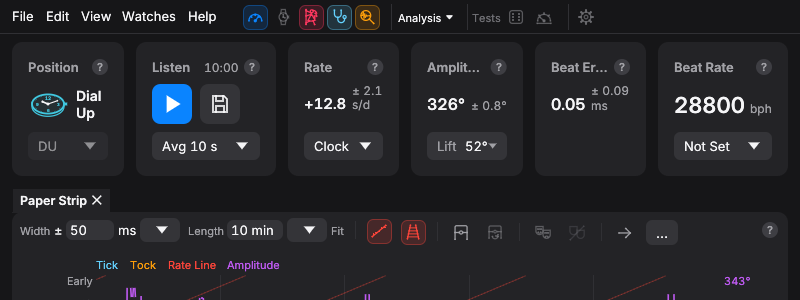
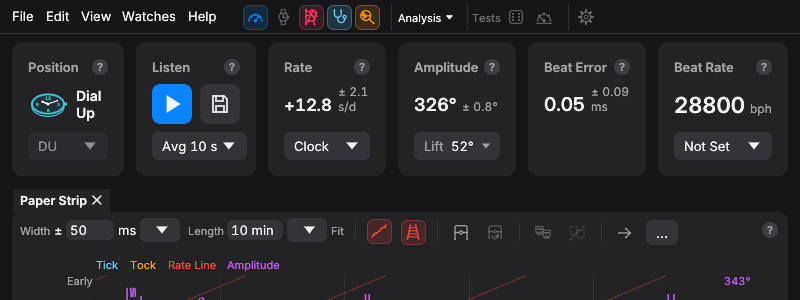
Readings cards: on the narrowest windows the take length stays in Listen's hover
Below about 820 pt a 140 pt Listen card would cut the reading cards'
captions short ("Amplit…", "Beat Er…"), so there Listen keeps the
spec's 120 pt and the length stays in its button's hover.

Claude-Session: https://claude.ai/code/session_01GsSg6RBnTb5YLpmgbJGamZ

diff --git a/crates/timegrapher-app/src/app.rs b/crates/timegrapher-app/src/app.rs
@@ -825,7 +825,13 @@ const POSITION_W: f32 = 250.0;
 const LISTEN_W: f32 = 190.0;
 const FULL_FIGURE_W: f32 = 250.0;
 const POSITION_COMPACT_W: f32 = 112.0;
+/// A compact Listen card gives the take's length beside its caption; on
+/// the narrowest windows it drops to `LISTEN_NARROWEST_W` and the length
+/// is in the Listen button's hover, so the reading cards keep
+/// `CAPTION_FIT_W`, room for their captions whole.
 const LISTEN_COMPACT_W: f32 = 140.0;
+const LISTEN_NARROWEST_W: f32 = 120.0;
+const CAPTION_FIT_W: f32 = 118.0;
 const BEAT_RATE_COMPACT_W: f32 = 130.0;
 /// The Current Position card's picture, and on a compact card.
 const POSITION_PIC: f32 = 66.0;
@@ -9732,13 +9738,18 @@ impl TimegrapherApp {
         };
         let compact = share(lead) < FULL_FIGURE_W;
         let widths = if compact {
-            let rest =
-                ((total - POSITION_COMPACT_W - LISTEN_COMPACT_W - BEAT_RATE_COMPACT_W - 5.0 * gap)
-                    / 3.0)
-                    .max(60.0);
+            let rest = |listen: f32| {
+                (total - POSITION_COMPACT_W - listen - BEAT_RATE_COMPACT_W - 5.0 * gap) / 3.0
+            };
+            let listen = if rest(LISTEN_COMPACT_W) >= CAPTION_FIT_W {
+                LISTEN_COMPACT_W
+            } else {
+                LISTEN_NARROWEST_W
+            };
+            let rest = rest(listen).max(60.0);
             [
                 POSITION_COMPACT_W,
-                LISTEN_COMPACT_W,
+                listen,
                 rest,
                 rest,
                 rest,
@@ -9896,7 +9907,9 @@ impl TimegrapherApp {
             "Listen",
             help::LISTEN,
             &[],
-            length.as_ref(),
+            length.as_ref().filter(|_| {
+                cards[1].inner.width() >= LISTEN_COMPACT_W - 2.0 * f32::from(theme::CARD_PADDING)
+            }),
         );
         slots.push((Slot::Listen, cards[1].figure.union(cards[1].controls)));
         let keep_clock = std::cell::Cell::new(false);
@@ -19176,8 +19189,9 @@ mod tests {
     }
 
     /// The readings' cards carry what a take needs: the position, Listen
-    /// and Save with the take's length (at every width) and Average Over
-    /// on a card of their own, the lift angle, and the beat rate's menu with the calibre: in
+    /// and Save with the take's length (on the card from 1000 up; on the
+    /// narrowest window in Listen's hover, so the reading cards keep their
+    /// captions whole) and Average Over on a card of their own, the lift angle, and the beat rate's menu with the calibre: in
     /// full where the window has room (1610), one control each where it
     /// hasn't (1000). Nothing says Take, Pause or Resume, and no Replay is
     /// offered.
@@ -19185,9 +19199,17 @@ mod tests {
     fn the_readings_cards_carry_the_take_controls() {
         let mut app = TimegrapherApp::with_devices(Vec::new(), None);
         let ctx = themed();
-        for w in [1000.0, 1610.0] {
+        for w in [800.0, 1000.0, 1610.0] {
             let texts = window_texts(&mut app, &ctx, w);
-            let mut wants = vec!["DU", "Listen", "Lift", "Not Set", "Watches", "bph", "0:00"];
+            let mut wants = vec!["DU", "Listen", "Lift", "Not Set", "Watches", "bph"];
+            if w > 800.0 {
+                wants.push("0:00");
+            } else {
+                // The length is in Listen's hover here, leaving the reading
+                // cards room for their captions.
+                assert!(!texts.iter().any(|t| t == "0:00"), "0:00 at {w}: {texts:?}");
+                wants.extend(["Position", "Avg 10 s", "Clock"]);
+            }
             if w > 1000.0 {
                 wants.extend([
                     "Current Position",
@@ -19203,7 +19225,7 @@ mod tests {
                     "Input Clock",
                     "Default",
                 ]);
-            } else {
+            } else if w > 800.0 {
                 // The take's length in the compact Listen card's title row,
                 // and Average Over's pop-up saying what it is.
                 wants.extend(["Position", "Dial", "Up", "Input Clock", "Avg 10 s"]);

diff --git a/docs/app.md b/docs/app.md
@@ -121,8 +121,10 @@ compact form; below about 1320 points every card does, down to the
 with a smaller picture, the name on two lines beside it, and one pop-up
 of the six positions (with their keys) instead of the buttons; keys 1 to
 6 still work, and the bars aren't shown. Listen keeps its two icons, gives
-the take's length beside its caption ("Listen 12:48"), and shows Average
-Over's pop-up as **Avg 10 s**. The reading cards' figures are smaller,
+the take's length beside its caption ("Listen 12:48"; on the narrowest
+windows, below about 820 points, in the Listen icon's hover instead, so
+the other cards keep their captions whole), and shows Average Over's
+pop-up as **Avg 10 s**. The reading cards' figures are smaller,
 with the ± over the unit beside them, and each card keeps one control:
 **Input Clock** (**Clock** on the narrowest cards), with the input clock
 and Keep in its menu, **Lift 52°** (the same field), none on Beat
